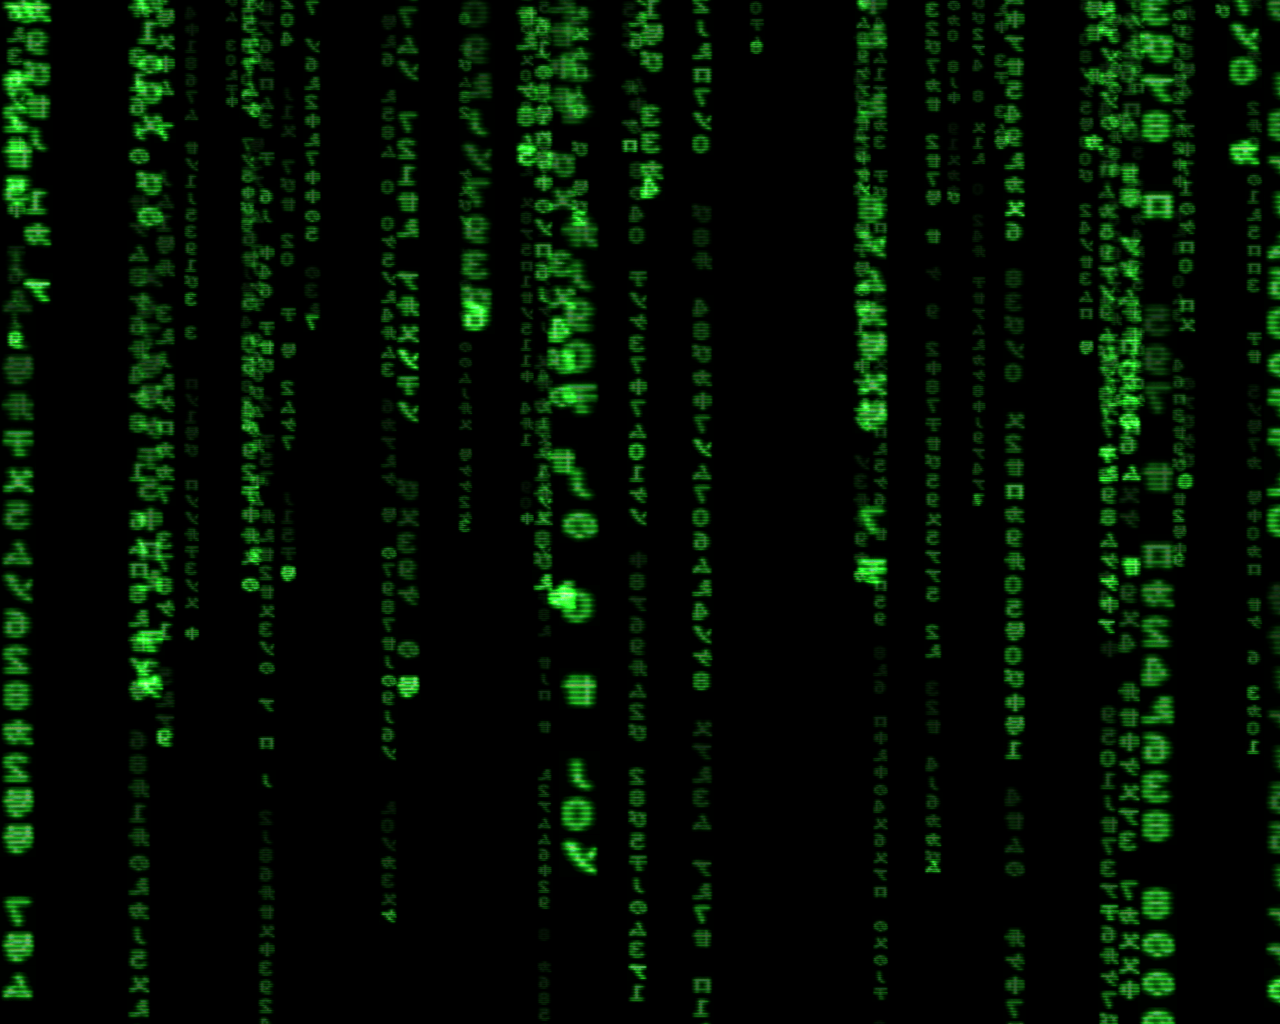
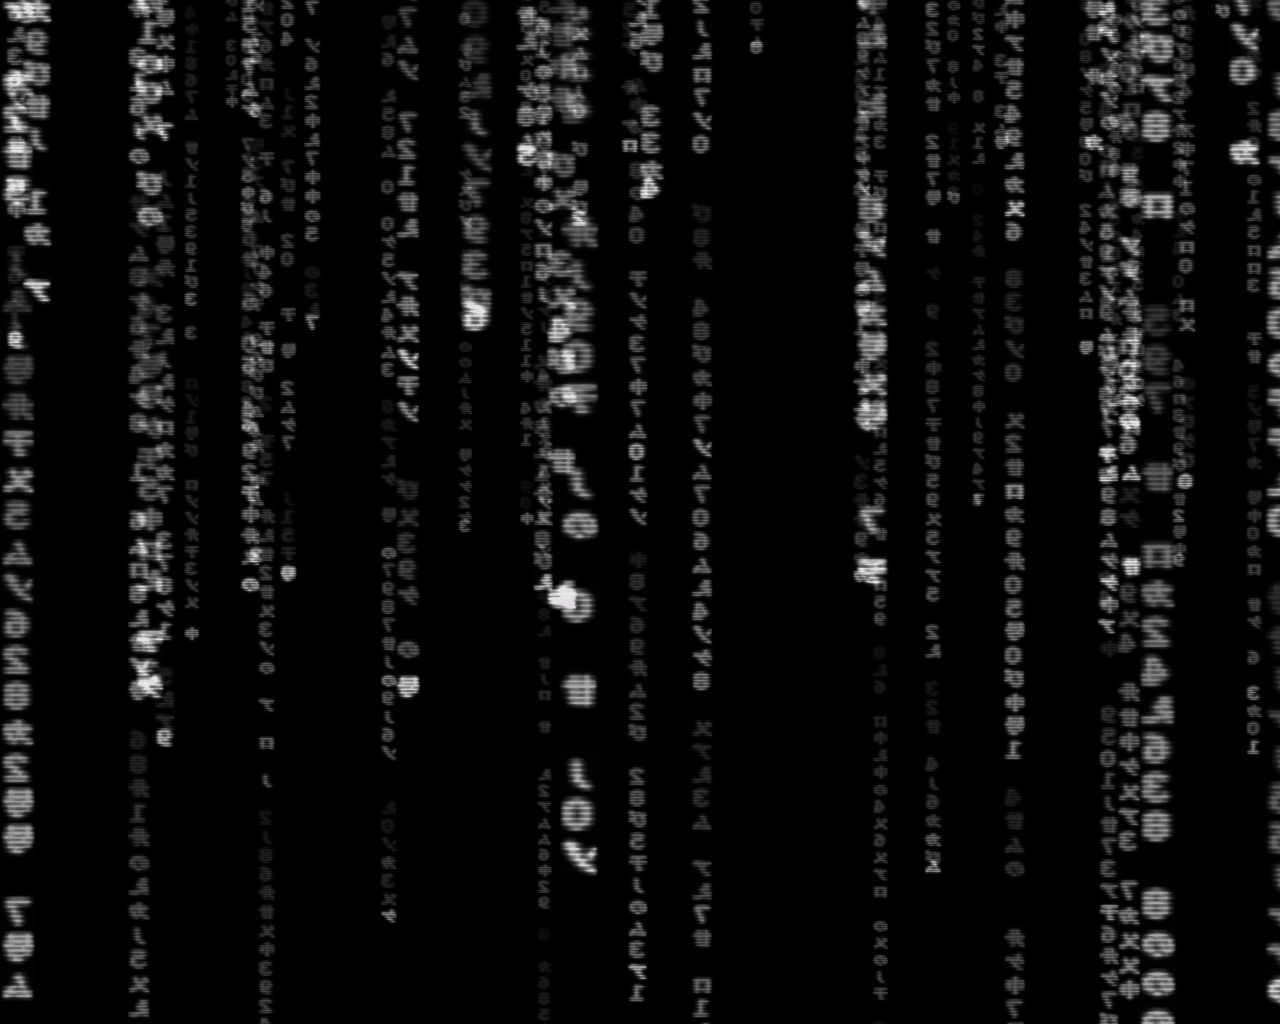
made skybox, white and black picture for right colors feat: made a skybox for the world set fog a bit less to see the skybox feat: made matrix.png to black and white to get right colors in rgb

diff --git a/assignment/src/scene.c b/assignment/src/scene.c
@@ -1,4 +1,5 @@
 #include "scene.h"
+#include "camera.h"
 #include <GL/gl.h>
 #include <GL/glu.h>
 #include <math.h>
@@ -50,6 +51,70 @@ void draw_cube() {
         glColor3f(0, 0, 1); glVertex3f(0, 0, 0); glVertex3f(0, 0, 1);
     glEnd();
 }*/
+
+void draw_sky(GLuint sky_texture){
+    double theta, phi1, phi2;
+    double x1, y1, z1;
+    double x2, y2, z2;
+    double u, v1, v2;
+
+    int n_slices, n_stacks;
+    double radius;
+    int i, k;
+
+    n_slices = 36;
+    n_stacks = 16;
+    radius = 275.0f;
+
+    glDisable(GL_LIGHTING);
+    glDisable(GL_DEPTH_TEST);
+    glDepthMask(GL_FALSE);
+
+    glEnable(GL_TEXTURE_2D);
+    glBindTexture(GL_TEXTURE_2D, sky_texture);
+    glColor3f(1.0f, 1.0f, 1.0f);
+
+    glMatrixMode(GL_MODELVIEW);
+    glPushMatrix();
+
+    glScaled(radius, radius, radius);
+    glBegin(GL_TRIANGLE_STRIP);
+
+    for (i = 0; i < n_stacks; ++i) {
+        v1 = (double)(i) / n_stacks;
+        v2 = (double)(i + 1) / n_stacks;
+
+        phi1 = (v1 * M_PI) - (M_PI / 2.0);
+        phi2 = (v2 * M_PI) - (M_PI / 2.0);
+
+        for (k = 0; k <= n_slices; ++k) {
+            u = (double)k / n_slices;
+            theta = u * 2.0 * M_PI;
+
+            x1 = cos(theta) * cos(phi1);
+            y1 = sin(theta) * cos(phi1);
+            z1 = sin(phi1);
+
+            x2 = cos(theta) * cos(phi2);
+            y2 = sin(theta) * cos(phi2);
+            z2 = sin(phi2);
+
+            glTexCoord2d(u, 1.0 - v1);
+            glVertex3d(x1, y1, z1);
+
+            glTexCoord2d(u, 1.0 - v2);
+            glVertex3d(x2, y2, z2);
+            }
+        }
+        glEnd();
+        glPopMatrix();
+
+    glDisable(GL_TEXTURE_2D);
+    glEnable(GL_LIGHTING);
+    glEnable(GL_DEPTH_TEST);
+    glDepthMask(GL_TRUE);
+
+}
 
 void draw_help_menu(const Scene* scene) {
     if (scene->show_help == 0) return;
@@ -223,6 +288,8 @@ void init_scene(Scene* scene) {
     scene->terminal_id[2] = load_texture("assets/hack3.png");
     scene->matrix_texture_id = load_texture("assets/matrix.png");
     scene->help_texture_id = load_texture("assets/help.png");
+    scene->sky_texture_id = load_texture("assets/sky.png");
+    
 
     for(int i = 0; i < 256; ++i) {
         scene->data_values[i] = (rand() % 150) + 10;
@@ -250,6 +317,7 @@ void update_scene(Scene* scene, double time) {
 
 void render_scene(const Scene* scene) {
     /*draw_origin();*/
+    draw_sky(scene->sky_texture_id);
     
     int victory = (scene->hacked_count >= 3);
 
@@ -303,7 +371,7 @@ void render_scene(const Scene* scene) {
             glColor3f(1.0f, 0.3f + pulse, 0.3f + pulse); 
         } else {
             float norm = (float)current_value / 200.0f;
-            glColor3f(0.4f + (norm * 0.2f), 0.0f, 0.0f); 
+            glColor3f(1.0f, 1.0f, 0.3f + (norm * 0.2f)); 
         }
 
         float height = current_value / 20.0f;

diff --git a/assignment/include/scene.h b/assignment/include/scene.h
@@ -24,6 +24,7 @@ typedef struct Scene
     GLuint terminal_id[3];
     GLuint matrix_texture_id;
     GLuint help_texture_id;
+    GLuint sky_texture_id;
 
 } Scene;
 
@@ -97,5 +98,6 @@ void process_hack_input(Scene* scene, int choice);
  */
 void draw_terminal(const Scene* scene);
 
+void draw_sky(GLuint sky_texture);
 
 #endif /* SCENE_H */

diff --git a/assignment/src/app.c b/assignment/src/app.c
@@ -82,7 +82,7 @@ void init_opengl()
     glFogfv(GL_FOG_COLOR, fog_color);
 
     glFogi(GL_FOG_MODE, GL_EXP2);
-    glFogf(GL_FOG_DENSITY, 0.035f);
+    glFogf(GL_FOG_DENSITY, 0.003f);
     glFogi(GL_FOG_HINT, GL_NICEST);
 }
 
